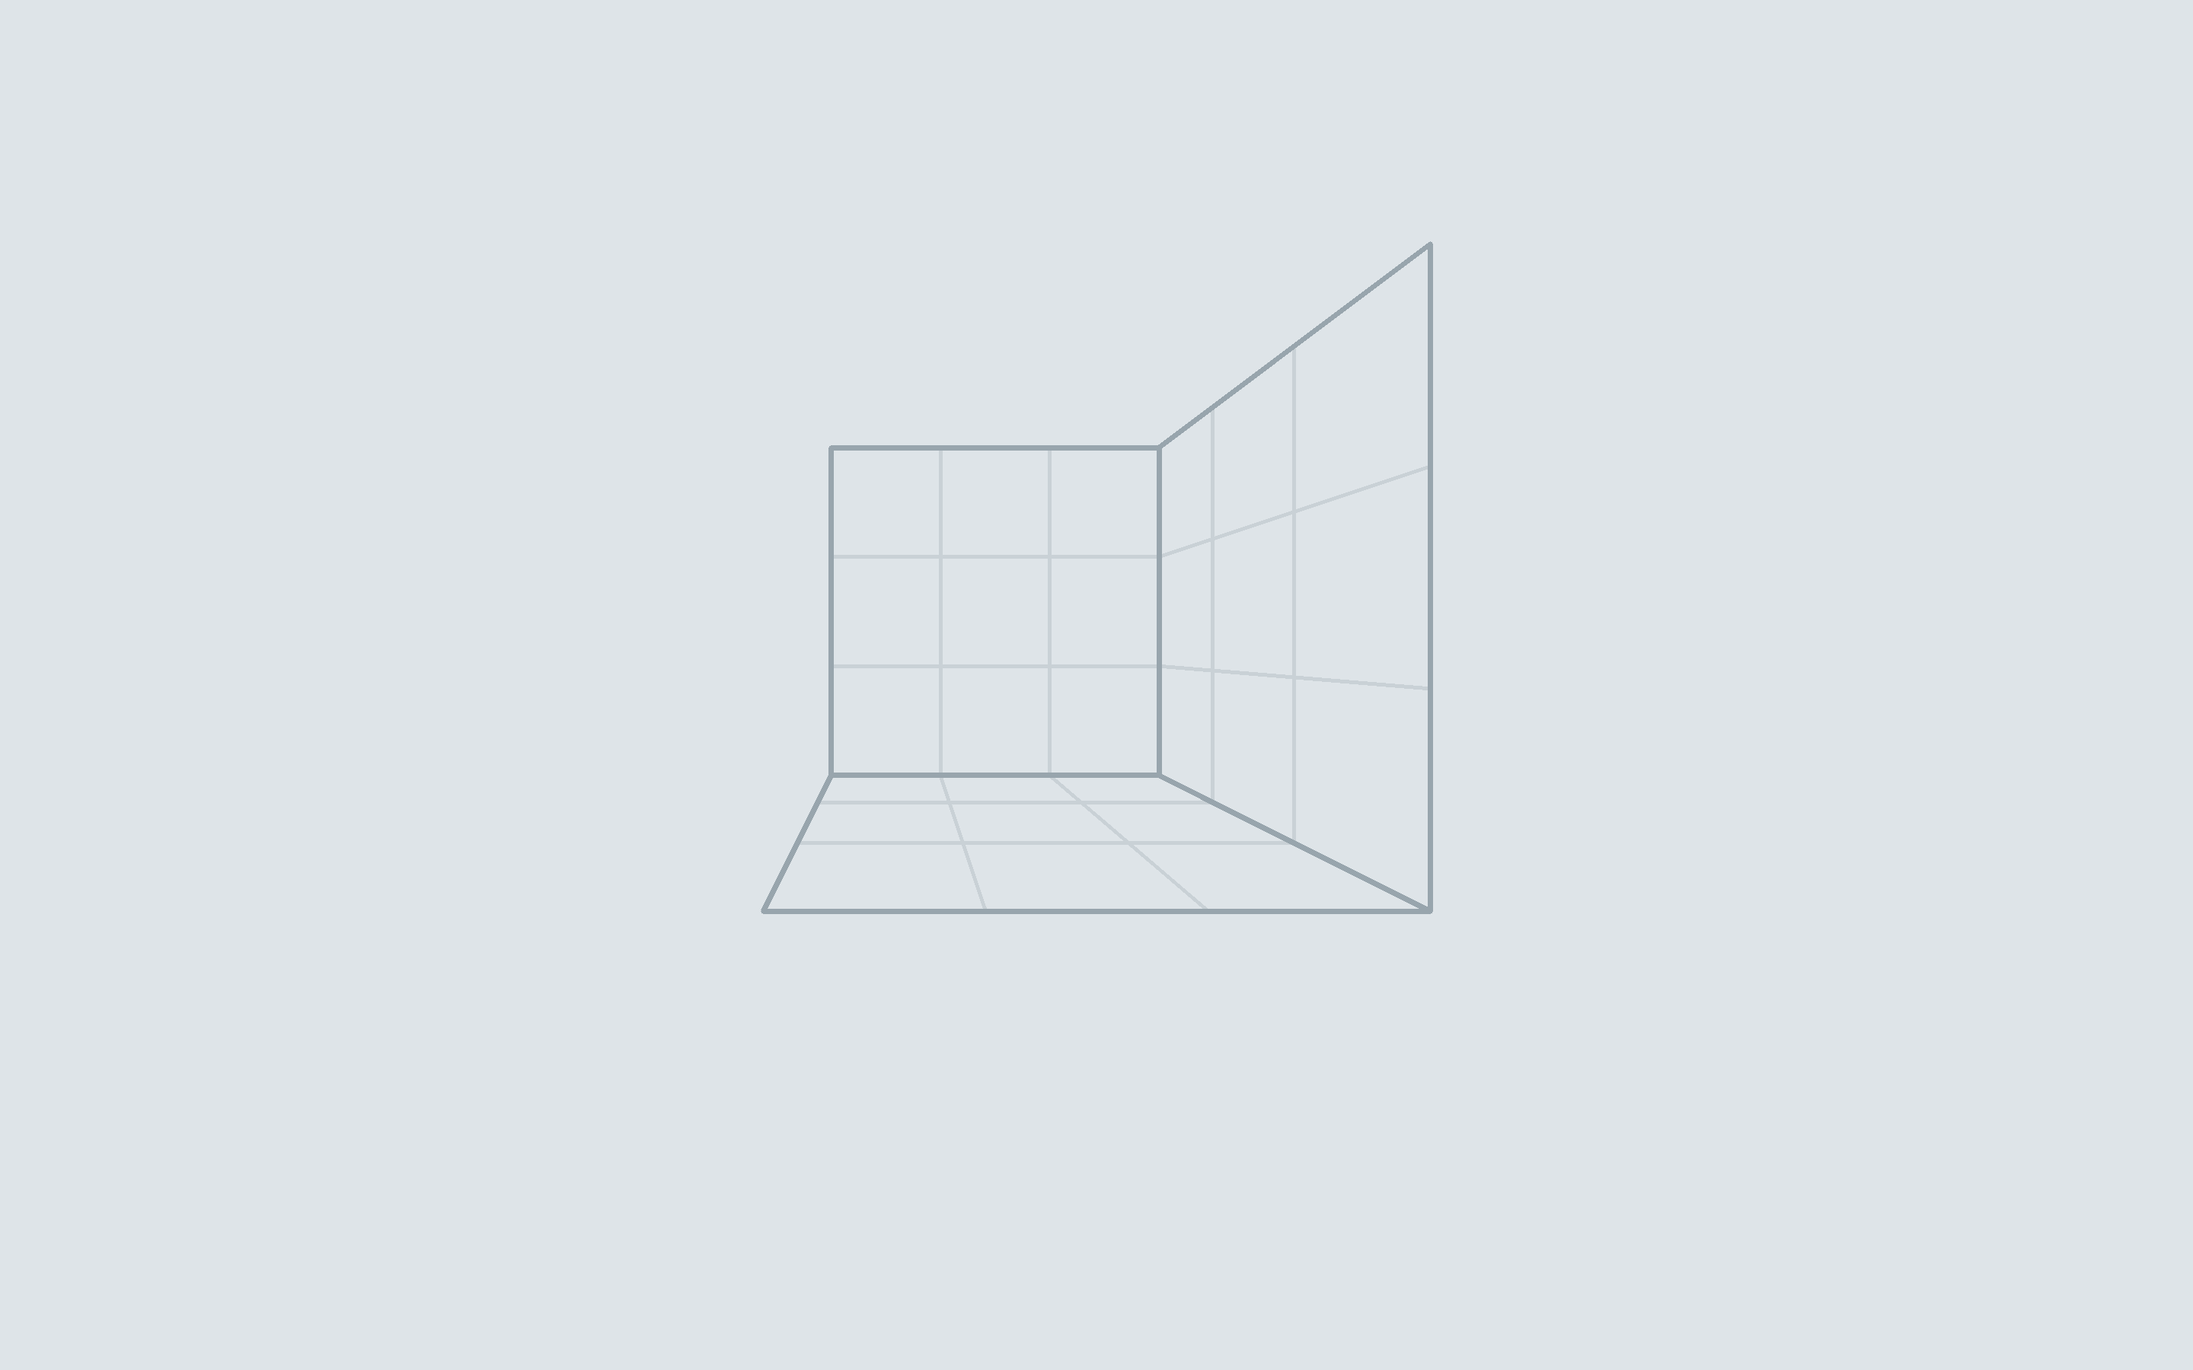
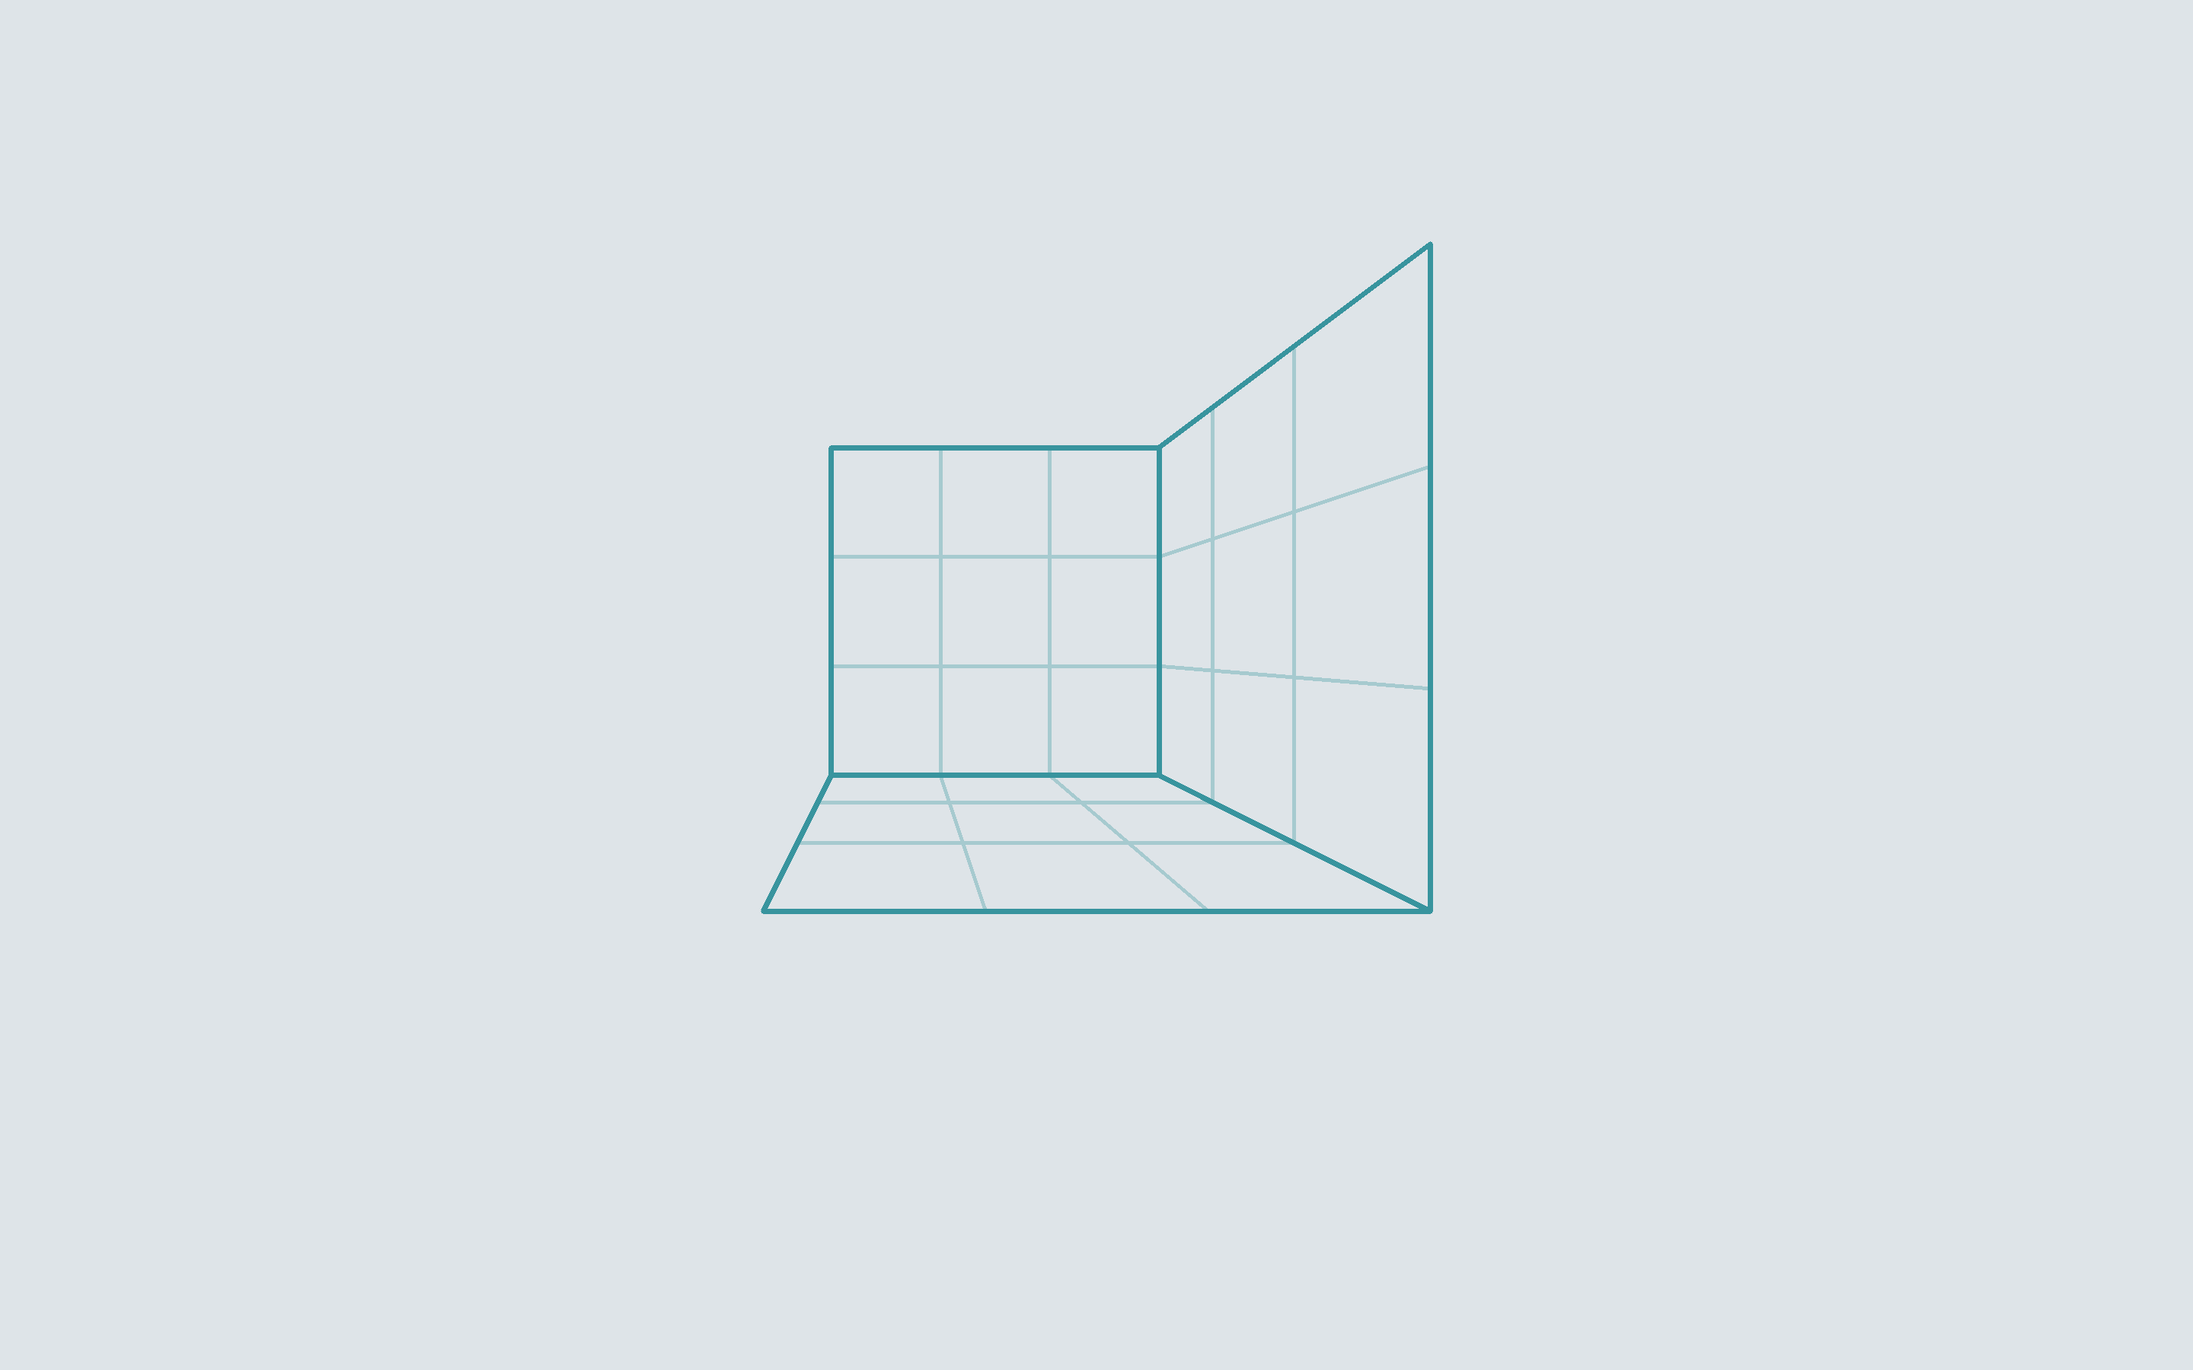
palette: a toggle's on tint, chart series; the light room in the accent
Round 0 of the desktop's design review (ui-hill-climb/), where all
three reviewers agreed:

- tint.<mode>.on and on_hover: a shell toggle that is on, with text as
  its label, 2.0:1 from off where the selected tint's 1.3 read as one
  state; text on it is held to 4.5:1 on every surface, the low-light
  and S1 checks measure it, lint takes the two as tokens.
- series: chart colours, one set for both modes, each a 3:1 mark on
  either window and none a status hue, written as System Monitor's
  dconf defaults (palette/system-monitor.dconf): its first CPU in red
  read as an alarm.
- The light wallpapers draw the room in light.accent, not the ink's
  grey, which read as the brand gone from the light desktop; the
  default's outline at the weight dark's has. The rule, its reason and
  the check that held the old one change together.

diff --git a/palette/perception.js b/palette/perception.js
@@ -11,7 +11,7 @@ window.PERCEPTION = {"views": ["ips", "dim", "dim_ips", "protan", "deutan", "tri
   {"name": "dark border ring on f", "tier": "R", "a": "#11181E", "b": "#2A3843", "ring": null, "ref": 10.26, "views": {"ips": 9.5, "dim": 7.94, "dim_ips": 8.66, "protan": 10.39, "deutan": 10.07, "tritan": 10.8, "protan+ips": 9.59, "deutan+ips": 9.3}, "worst": 7.94, "where": "dim", "need": ">= 6 / 4", "verdict": "ok", "via": null},
   {"name": "dark border ring on g", "tier": "R", "a": "#172028", "b": "#2A3843", "ring": null, "ref": 7.63, "views": {"ips": 7.15, "dim": 6.08, "dim_ips": 6.59, "protan": 7.7, "deutan": 7.45, "tritan": 7.87, "protan+ips": 7.2, "deutan+ips": 6.96}, "worst": 6.08, "where": "dim", "need": ">= 6 / 4", "verdict": "ok", "via": null},
   {"name": "dark border ring on h (level 3 over a menu)", "tier": null, "a": "#1F2A33", "b": "#2A3843", "ring": null, "ref": 4.49, "views": {"ips": 4.26, "dim": 3.72, "dim_ips": 3.99, "protan": 4.55, "deutan": 4.4, "tritan": 4.63, "protan+ips": 4.32, "deutan+ips": 4.17}, "worst": 3.72, "where": "dim", "verdict": "report"},
-  {"name": "dark quick toggle off / on", "tier": "S1", "a": "#2C373F", "b": "#194C58", "ring": null, "ref": 11.29, "views": {"ips": 11.04, "dim": 10.11, "dim_ips": 10.68, "protan": 6.88, "deutan": 6.67, "tritan": 11.82, "protan+ips": 6.7, "deutan+ips": 6.54}, "worst": 6.54, "where": "deutan+ips", "need": ">= 10 / 6", "verdict": "ok", "via": null},
+  {"name": "dark quick toggle off / on", "tier": "S1", "a": "#2C373F", "b": "#146D7C", "ring": null, "ref": 21.03, "views": {"ips": 20.74, "dim": 19.67, "dim_ips": 20.32, "protan": 17.93, "deutan": 16.1, "tritan": 21.39, "protan+ips": 17.57, "deutan+ips": 15.8}, "worst": 15.8, "where": "deutan+ips", "need": ">= 10 / 6", "verdict": "ok", "via": null},
   {"name": "dark f / selected (rest tint)", "tier": "S1", "a": "#11181E", "b": "#0E3D46", "ring": null, "ref": 14.93, "views": {"ips": 14.17, "dim": 12.22, "dim_ips": 13.24, "protan": 11.29, "deutan": 10.59, "tritan": 15.34, "protan+ips": 10.45, "deutan+ips": 9.92}, "worst": 9.92, "where": "deutan+ips", "need": ">= 10 / 6", "verdict": "ok", "via": null},
   {"name": "dark rest / hover over f", "tier": "S2", "a": "#0E3D46", "b": "#0D4752", "ring": null, "ref": 3.31, "views": {"ips": 3.26, "dim": 3.09, "dim_ips": 3.19, "protan": 3.35, "deutan": 3.09, "tritan": 3.4, "protan+ips": 3.26, "deutan+ips": 3.0}, "worst": 3.0, "where": "deutan+ips", "need": ">= 3 / 2", "verdict": "ok", "via": null},
   {"name": "dark hover / active over f", "tier": "S2", "a": "#0D4752", "b": "#0C515D", "ring": null, "ref": 3.3, "views": {"ips": 3.25, "dim": 3.11, "dim_ips": 3.19, "protan": 3.28, "deutan": 2.98, "tritan": 3.38, "protan+ips": 3.21, "deutan+ips": 2.9}, "worst": 2.9, "where": "deutan+ips", "need": ">= 3 / 2", "verdict": "ok", "via": null},

diff --git a/palette/construct.scss b/palette/construct.scss
@@ -50,6 +50,10 @@ $construct-tint-decoration-dark: 0.05;
 $construct-tint-track-light: 0.50;
 $construct-tint-track-dark: 0.50;
 
+// A toggle that is on, and its hover: text, not accent_text, on it
+$construct-tint-on-light: (0.36, 0.40);
+$construct-tint-on-dark: (0.30, 0.36);
+
 // The light variant only: the desktop's ground, the sidebar's pane, and its lines -
 // $construct-muted-dark at (divider, border, ring)
 $construct-desk: #DEE4E8;

diff --git a/palette.py b/palette.py
@@ -192,6 +192,9 @@ def checks(p):
             # desktop under them is e, often the wallpaper's own color.
             for k, need in (("text", BODY), ("muted", TEXT), ("accent", TEXT), ("success", TEXT), ("warning", TEXT), ("error", TEXT)):
                 yield f"dark {k} on raised (shell menus)", m[k], n["h"], need
+        # Chart series, one set for both modes: a mark on the mode's window.
+        for k, c in p["series"].items():
+            yield f"{mode} series {k} on window", c, n["f" if mode == "dark" else "c"], UI
         # Buttons filled with a semantic color (destructive, success): Orchis puts black or white
         # on them by brightness, as on the accent. Error is never a fill: the destructive red is.
         for k in ("success", "warning", "destructive"):
@@ -209,6 +212,9 @@ def checks(p):
                 yield f"{mode} accent_text on {where}", m["accent_text"], fill, TEXT
                 yield f"{mode} text on {where}", m["text"], fill, TEXT
                 yield f"{mode} muted on {where}", m["muted"], fill, REPORT
+            # A toggle that is on: the stronger tint with text, not accent_text, as its label.
+            for step in ("on", "on_hover"):
+                yield f"{mode} text on {step} tint ({t[step]:.2f}) over {k}", m["text"], mix(m["accent"], n[k], t[step]), TEXT
             # Focus on a selected item: the 2px ring on the strongest tint it can stand on.
             yield f"{mode} focus ring on active tint over {k}", m["accent"], mix(m["accent"], n[k], t["active"]), UI
             # A switch's track when on: the knob, full accent and checked as a mark above, carries
@@ -315,7 +321,7 @@ def perceptual_checks(p):
     # edge there, until a lighter ring for that level exists.
     yield None, "dark border ring on h (level 3 over a menu)", n["h"], d["border"], None
     off = mix(n["a"], n["h"], SHELL_FILL)
-    yield "S1", "dark quick toggle off / on", off, mix(d["accent"], n["h"], td["rest"]), None
+    yield "S1", "dark quick toggle off / on", off, mix(d["accent"], n["h"], td["on"]), None
     for k in "fgh":
         rest, hover, active = (mix(d["accent"], n[k], td[s]) for s in ("rest", "hover", "active"))
         yield "S1", f"dark {k} / selected (rest tint)", n[k], rest, None
@@ -397,11 +403,11 @@ def perception(p):
 def low_light(p):
     """What 30% backlight in a lit room leaves of the edges and states the scale leans on."""
     n, d, td = p["neutral"], p["dark"], p["tint"]["dark"]
-    off, on = mix(n["a"], n["h"], SHELL_FILL), mix(d["accent"], n["h"], td["rest"])
+    off, on = mix(n["a"], n["h"], SHELL_FILL), mix(d["accent"], n["h"], td["on"])
     yield "dark h on e (a menu off the desktop)", n["h"], n["e"]
     yield "dark border ring on e", d["border"], n["e"]
     yield "dark rest tint over g against g", mix(d["accent"], n["g"], td["rest"]), n["g"]
-    yield "dark quick toggle on / off (why an on toggle draws its icon disc)", on, off
+    yield "dark quick toggle on / off (the on tint, and its icon disc)", on, off
     yield "dark icon disc (accent) on the on toggle", d["accent"], on
 
 
@@ -663,6 +669,9 @@ def scss(p):
     for k in ("decoration", "track"):
         for variant, mode in (("light", "dark"), ("dark", "light")):
             lines += [f"$construct-tint-{k}-{variant}: {t[mode][k]:.2f};"]
+    lines += ["", "// A toggle that is on, and its hover: text, not accent_text, on it"]
+    for variant, mode in (("light", "dark"), ("dark", "light")):
+        lines += [f"$construct-tint-on-{variant}: ({t[mode]['on']:.2f}, {t[mode]['on_hover']:.2f});"]
     ln = p["line"]["light"]
     lines += ["", "// The light variant only: the desktop's ground, the sidebar's pane, and its lines -",
               "// $construct-muted-dark at (divider, border, ring)",
@@ -715,6 +724,19 @@ def simulate_js(p):
             f"document.body.insertAdjacentHTML(\"beforeend\", {json.dumps(svg)});\n")
 
 
+def system_monitor(p):
+    """The series as System Monitor's defaults, a dconf keyfile the image installs."""
+    s = p["series"]
+    cpus = ", ".join(f"(uint32 {i}, '{s[k]}')" for i, k in enumerate(("one", "two", "three", "four")))
+    return ("# Generated by palette.py from palette.toml - do not edit.\n"
+            "# System Monitor's series in the palette's series colours, not status hues.\n"
+            "[org/gnome/gnome-system-monitor]\n"
+            f"cpu-colors=[{cpus}]\n"
+            f"mem-color='{s['one']}'\nswap-color='{s['three']}'\n"
+            f"net-in-color='{s['one']}'\nnet-out-color='{s['two']}'\n"
+            f"disk-read-color='{s['one']}'\ndisk-write-color='{s['two']}'\n")
+
+
 if __name__ == "__main__":
     OUT = sys.argv[1] if len(sys.argv) > 1 else "palette"
     p = load()
@@ -730,7 +752,8 @@ if __name__ == "__main__":
     open(f"{OUT}/vscode/package.json", "w").write(vscode_package(p))
     open(f"{OUT}/perception.js", "w").write(perception_js(p))
     open(f"{OUT}/simulate.js", "w").write(simulate_js(p))
+    open(f"{OUT}/system-monitor.dconf", "w").write(system_monitor(p))
     for mode in ("dark", "light"):
         open(f"{OUT}/ghostty/Construct {mode.title()}", "w").write(ghostty(p, mode))
         open(f"{OUT}/vscode/themes/construct-{mode}.json", "w").write(vscode(p, mode))
-    print(f"{OUT}/: construct.css, construct.scss, construct.json, perception.js, simulate.js, ghostty/, vscode/")
+    print(f"{OUT}/: construct.css, construct.scss, construct.json, perception.js, simulate.js, system-monitor.dconf, ghostty/, vscode/")

diff --git a/wallpaper.py b/wallpaper.py
@@ -10,9 +10,11 @@ import palette, room
 # Four pairs, each dark and light. The default, construct-*, is the boot's last frame held still:
 # Plymouth's outro goes back to the grid so GDM takes over on this drawing, so its mark stays where
 # the boot puts it. The other three are quieter, for long sessions, and fail here unless they are
-# calmer than the default of their mode. Dark draws in the accent on ink; light draws the room in
-# the ink's hue (light.muted) on the desk, a technical drawing, with no cyan - except the mark,
-# which is the brand mark and keeps the light accent.
+# calmer than the default of their mode. Each mode draws the room in its accent: dark's cyan on
+# ink, light's darkened cyan (light.accent) on the desk. Light once drew it in the ink's hue, a
+# technical drawing with no cyan; the round-0 council (ui-hill-climb) read that grey on grey as
+# the brand gone from the light desktop, all three reviewers, and a muted room is checked against
+# here.
 # GNOME zooms them to the screen, so they are made once, at 16:10 and 2880x1800, the ThinkPad X9's
 # panel; a 16:9 screen crops 90px from the top and the bottom, a 3:2 one from the sides.
 # construct.xml offers each pair to Settings (gnome-background-properties): the light one with the
@@ -61,18 +63,18 @@ def rgb(h):
 
 
 INK, DESK = PAL["brand"]["ink"], PAL["light"]["desk"]
-DARK, LIGHT, MUTED = PAL["dark"]["accent"], PAL["light"]["accent"], PAL["light"]["muted"]
+DARK, LIGHT = PAL["dark"]["accent"], PAL["light"]["accent"]
 # name -> (scale, place, grid, outline width, {mode: (ground, lines, outline level, grid level, glow)})
 VARIANTS = {
     # The boot's drawing: the dark one glows like the splash; the light one is ink on the desk.
-    "construct": (1, None, True, 3, {"dark": (INK, DARK, 0.55, 0.22, 0.6), "light": (DESK, MUTED, 0.50, 0.15, 0)}),
+    "construct": (1, None, True, 3, {"dark": (INK, DARK, 0.55, 0.22, 0.6), "light": (DESK, LIGHT, 0.75, 0.25, 0)}),
     # The same drawing at a third of the level and without the glow, whose haze is most of the
     # default's busyness (8.5% of the screen against 1.1% for the lines alone). Same camera: it may
     # take over from the boot too.
-    "quiet": (1, None, True, 3, {"dark": (INK, DARK, 0.17, 0.045, 0), "light": (DESK, MUTED, 0.28, 0.11, 0)}),
+    "quiet": (1, None, True, 3, {"dark": (INK, DARK, 0.17, 0.045, 0), "light": (DESK, LIGHT, 0.28, 0.11, 0)}),
     # The room smaller, low on the right third, its tall wall facing the empty two thirds where
     # GNOME opens windows; a step above quiet, or at 0.62 it would vanish.
-    "offset": (0.62, (5 / 6, 0.80), True, 3, {"dark": (INK, DARK, 0.24, 0.08, 0), "light": (DESK, MUTED, 0.34, 0.12, 0)}),
+    "offset": (0.62, (5 / 6, 0.80), True, 3, {"dark": (INK, DARK, 0.24, 0.08, 0), "light": (DESK, LIGHT, 0.34, 0.12, 0)}),
     # Only the brand mark, small, in the corner: 201px from the right and the bottom, 90px of
     # zoom crop (16:9 and 3:2) plus the dock's top and a space step at 150%, (6 + 44 + 24) x 1.5.
     "mark": (0.22, (1 - 201 / W, 1 - 201 / H), False, 2, {"dark": (INK, DARK, 0.45, 0, 0), "light": (DESK, LIGHT, 0.40, 0, 0)}),
@@ -120,8 +122,8 @@ for name, (scale, place, with_grid, width, modes) in VARIANTS.items():
                                 f"at most {QUIET['outline']} and {QUIET['grid']}")
             if de(palette.mix(ink, bg, lg), PAL["neutral"]["h"]) < QUIET["grid_vs_h"]:
                 problems.append(f"quiet-dark: the grid is under ΔE00 {QUIET['grid_vs_h']} from h, a menu's edge would merge")
-        if mode == "light" and ink == LIGHT and name != "mark":
-            problems.append(f"{file}-light: light draws in the ink's hue, not cyan; only the mark is the accent")
+        if mode == "light" and ink != LIGHT:
+            problems.append(f"{file}-light: light draws the room in light.accent, the brand's hue, not {ink}")
     if place is None:
         centre = (lo_[1] + hi_[1]) / 2 / H
         if abs(centre - MARK_CENTER) > 0.002:

diff --git a/lint.py b/lint.py
@@ -52,11 +52,13 @@ def colors(text):
 
 # C7: the accent's alpha is a token. A level of the accent scale (THEMING.md) is an alpha
 # palette.toml names - Orchis' $tint, $tint-hover, $tint-active, $selection-alpha,
-# $tint-decoration, $tint-track - never a number written where it is used, nor a shade
+# $tint-decoration, $tint-track, $tint-on and $tint-on-hover (a shell toggle that is on) - never
+# a number written where it is used, nor a shade
 # lighten() or darken() makes: a number chosen at each place of use is how a scale drifts into
 # twenty alphas no one can tell apart. Exceptions are lint-forks.toml's [fork.<name>.accent], each with its reason.
 ACCENT = r"\$(?:primary|suggested|link)\b"
-TOKENS = {"$tint", "$tint-hover", "$tint-active", "$selection-alpha", "$tint-decoration", "$tint-track"}
+TOKENS = {"$tint", "$tint-hover", "$tint-active", "$selection-alpha", "$tint-decoration", "$tint-track",
+          "$tint-on", "$tint-on-hover"}
 ALPHA = re.compile(rf"\b(?:rgba|alpha|gtkalpha)\(\s*{ACCENT}\s*,\s*([^)]*)\)")
 COLOR_MIX = re.compile(rf"color-mix\(\s*in\s+[\w-]+\s*,\s*{ACCENT}\s+([^,]+),")
 SHADE = re.compile(rf"\b(?:transparentize|lighten|darken)\(\s*{ACCENT}|(?<![\w-])mix\([^;]*?{ACCENT}")

diff --git a/THEMING.md b/THEMING.md
@@ -18,8 +18,9 @@ arrives in upstream's color until it is recolored. Each fork's README says what 
 | `brand` | the logo's cyan, ink (the wallpaper's) and paper; the boot's black, the ground under all that is not a window or the desktop |
 | `neutral` | the surfaces, a-h, on Orchis' scale: a-d light (a brightest), e-h dark (e darkest) |
 | `dark`, `light` | per mode: accent, the accent standing alone (`accent_text`), text on the accent, text, muted text, border, success, warning, error, the destructive action's fill; light's desk (the desktop's ground) and shelf (the sidebar's pane) |
-| `tint` | per mode, the accent's alpha over a surface: rest, hover, active; selection; decoration (transient overlays); a switch's track |
+| `tint` | per mode, the accent's alpha over a surface: rest, hover, active; selection; decoration (transient overlays); a switch's track; on and its hover (a shell toggle that is on, text as its label) |
 | `line.light` | light's lines: `light.muted` at an alpha, for dividers, borders and the window's ring |
+| `series` | chart series, one set for both modes (System Monitor's CPUs, memory, network, disk): never a status hue; `palette/system-monitor.dconf` |
 | `shape` | libadwaita's radius steps, the spacing grid, the bars' distance from the screen edge |
 | `icons` | Tela's folder body and its glyph |
 | `cursor` | Bibata's fill, outline and the watch |
